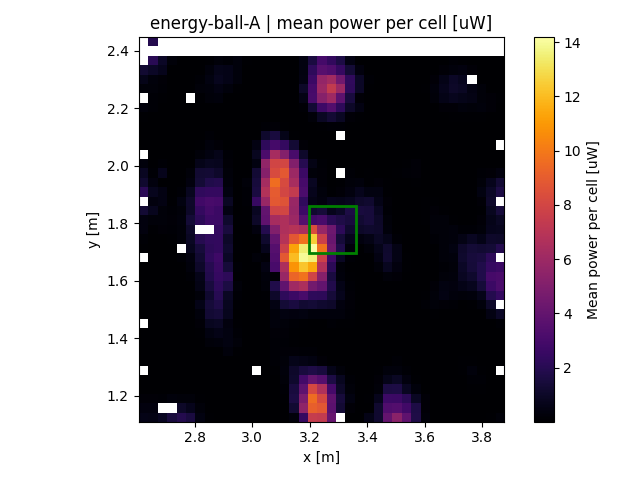
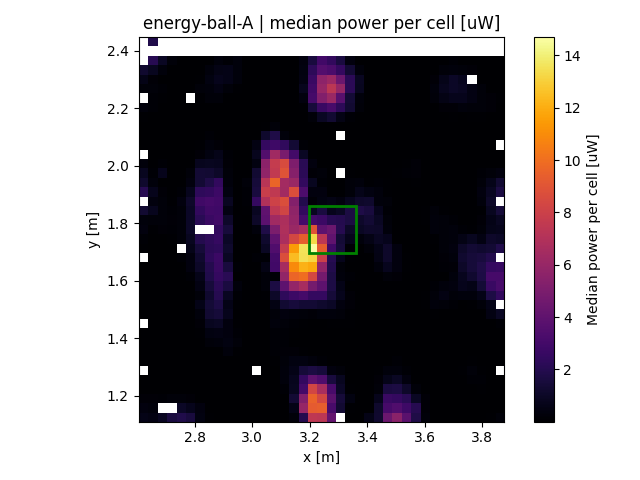
update markdown

diff --git a/processing/plot_all_folders_heatmap.py b/processing/plot_all_folders_heatmap.py
@@ -246,7 +246,7 @@ def gain_stats(curr, base, x_edges, y_edges, target_rect=None):
 
 
 def compute_heatmap(xs, ys, vs, grid_res, agg="median", x_edges=None, y_edges=None):
-    """Bin values onto a 2D grid and compute mean or median power per cell."""
+    """Bin values onto a 2D grid and compute an aggregate power per cell."""
     if x_edges is None or y_edges is None:
         min_x, max_x = xs.min(), xs.max()
         min_y, max_y = ys.min(), ys.max()
@@ -254,10 +254,9 @@ def compute_heatmap(xs, ys, vs, grid_res, agg="median", x_edges=None, y_edges=No
         y_edges = np.arange(min_y, max_y + grid_res, grid_res)
 
     heatmap = np.full((len(x_edges) - 1, len(y_edges) - 1), np.nan, dtype=float)
-    if agg not in {"mean", "median"}:
-        raise ValueError("agg must be either 'mean' or 'median'")
-    sums = np.zeros_like(heatmap, dtype=float) if agg == "mean" else None
-    cell_values = defaultdict(list) if agg == "median" else None
+    if agg not in {"mean", "median", "max", "min"}:
+        raise ValueError("agg must be one of: mean, median, max, min")
+    cell_values = defaultdict(list)
     counts = np.zeros_like(heatmap, dtype=int)
 
     xi = np.digitize(xs, x_edges) - 1
@@ -265,19 +264,19 @@ def compute_heatmap(xs, ys, vs, grid_res, agg="median", x_edges=None, y_edges=No
 
     for i_x, i_y, v in zip(xi, yi, vs):
         if 0 <= i_x < heatmap.shape[0] and 0 <= i_y < heatmap.shape[1]:
-            if agg == "mean":
-                sums[i_x, i_y] += v
-            else:
-                cell_values[(i_x, i_y)].append(v)
+            cell_values[(i_x, i_y)].append(v)
             counts[i_x, i_y] += 1
 
-    mask = counts > 0
-    if agg == "median":
-        for (i_x, i_y), values in cell_values.items():
-            heatmap[i_x, i_y] = float(np.median(values))
-        heatmap[~mask] = np.nan
-    else:
-        heatmap[mask] = sums[mask] / counts[mask]  # mean per cell
+    agg_funcs = {
+        "mean": np.mean,
+        "median": np.median,
+        "max": np.max,
+        "min": np.min,
+    }
+    func = agg_funcs[agg]
+    for (i_x, i_y), values in cell_values.items():
+        if values:
+            heatmap[i_x, i_y] = float(func(values))
     return heatmap, counts, x_edges, y_edges, xi, yi
 
 
@@ -549,7 +548,7 @@ def parse_args():
     )
     parser.add_argument(
         "--agg",
-        choices=["mean", "median"],
+        choices=["mean", "median", "max", "min"],
         default="mean",
         help="Aggregation used for heatmap cells (default: mean).",
     )
